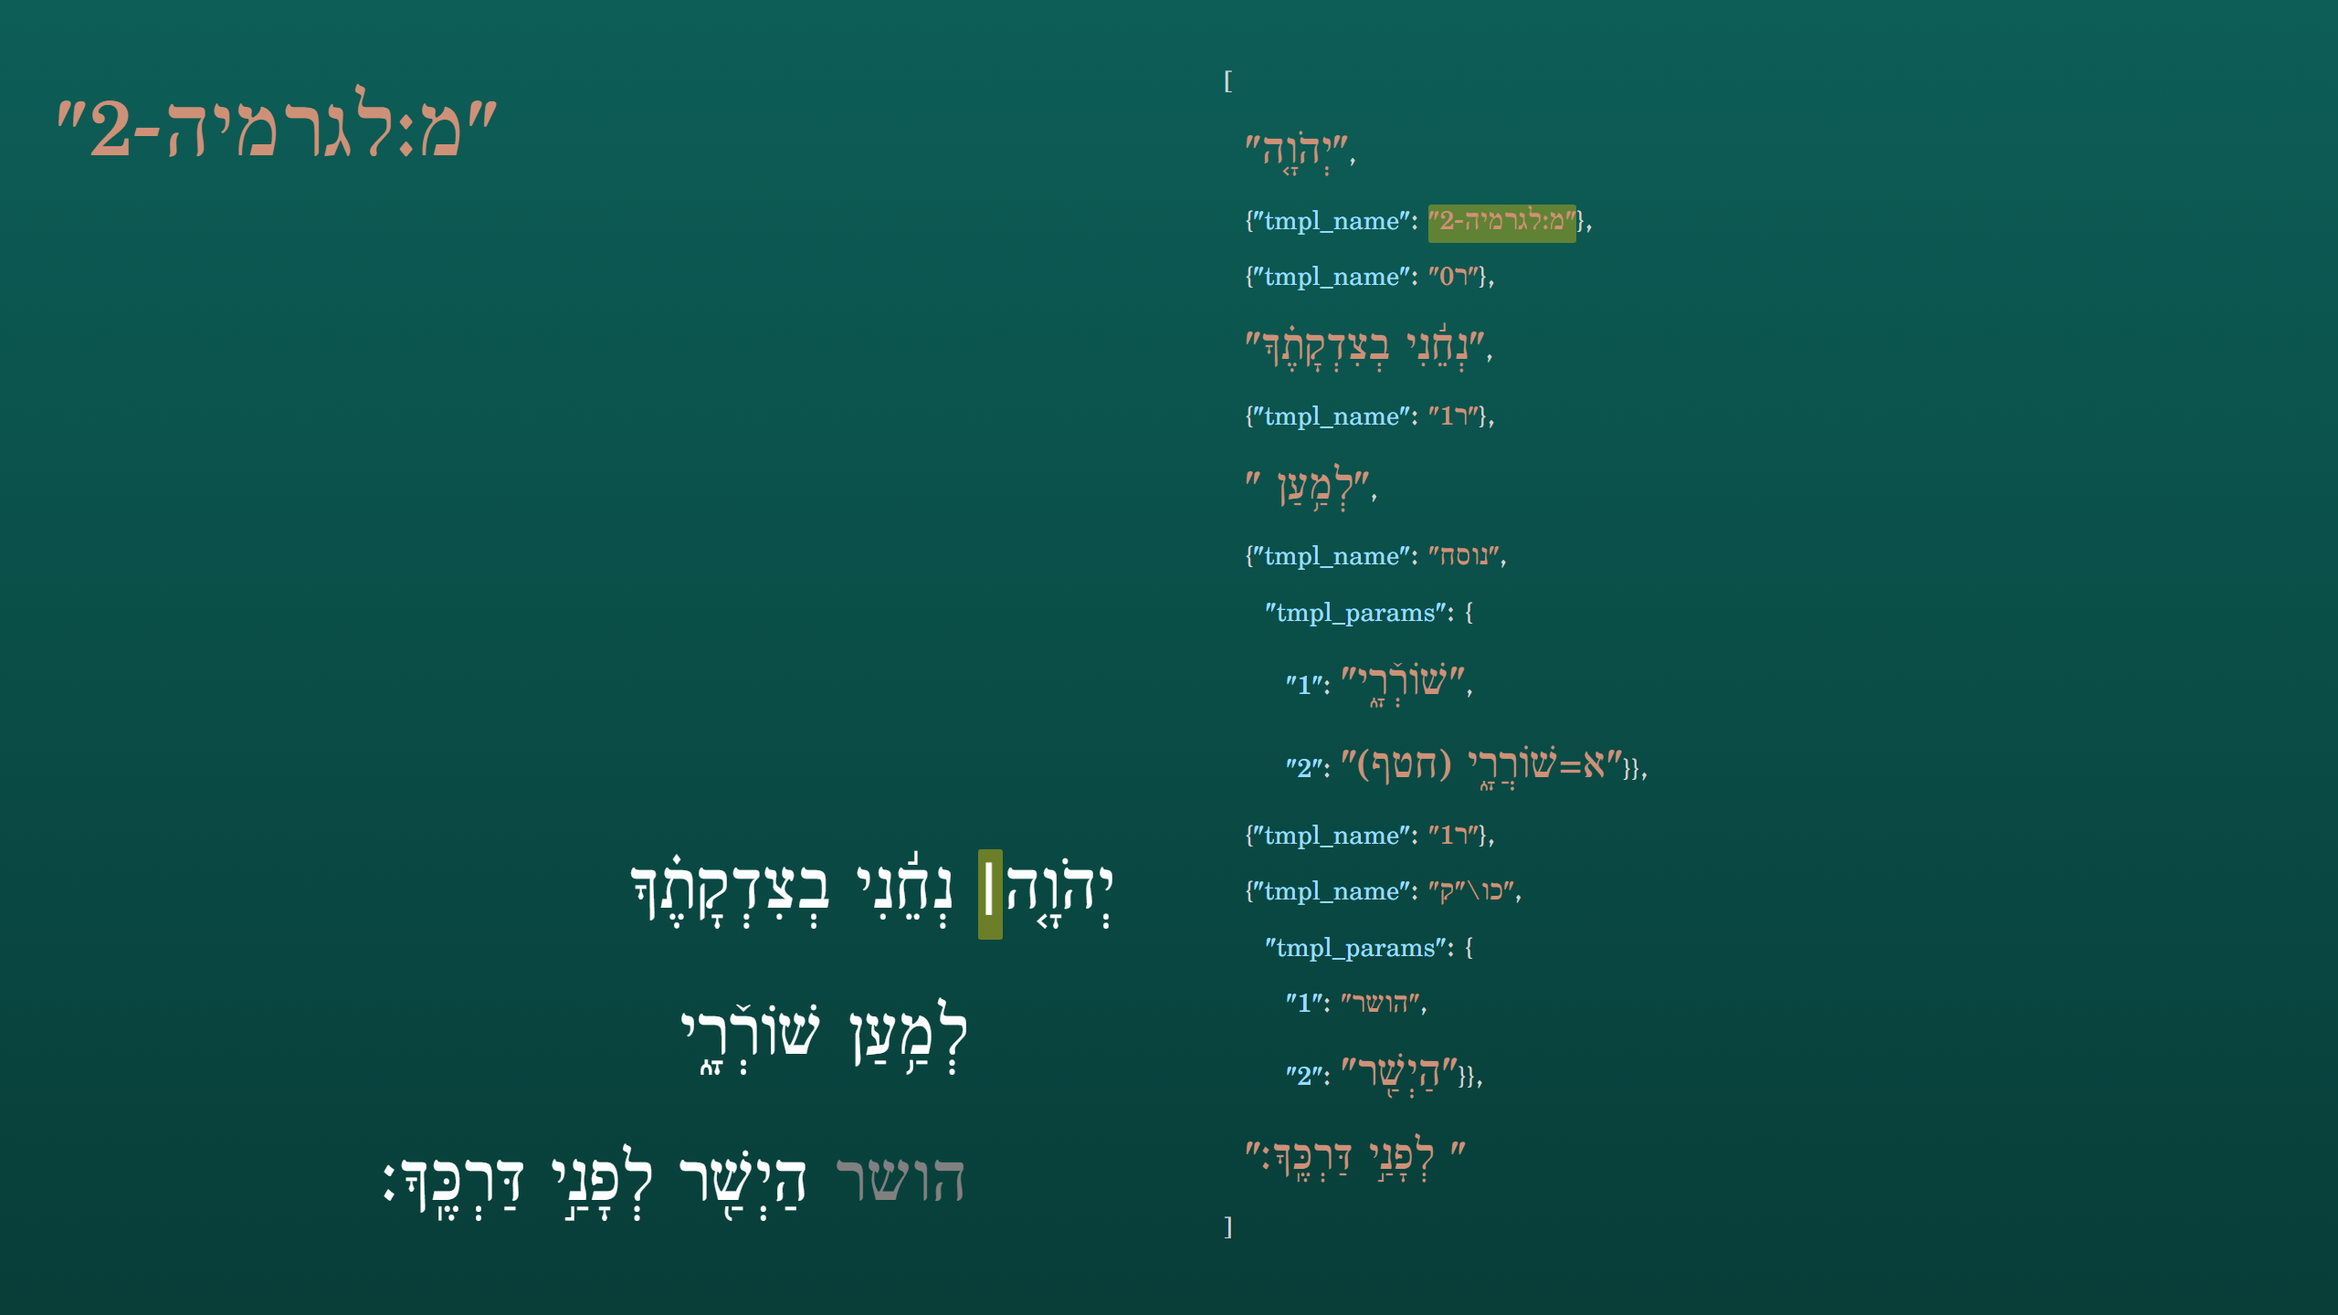
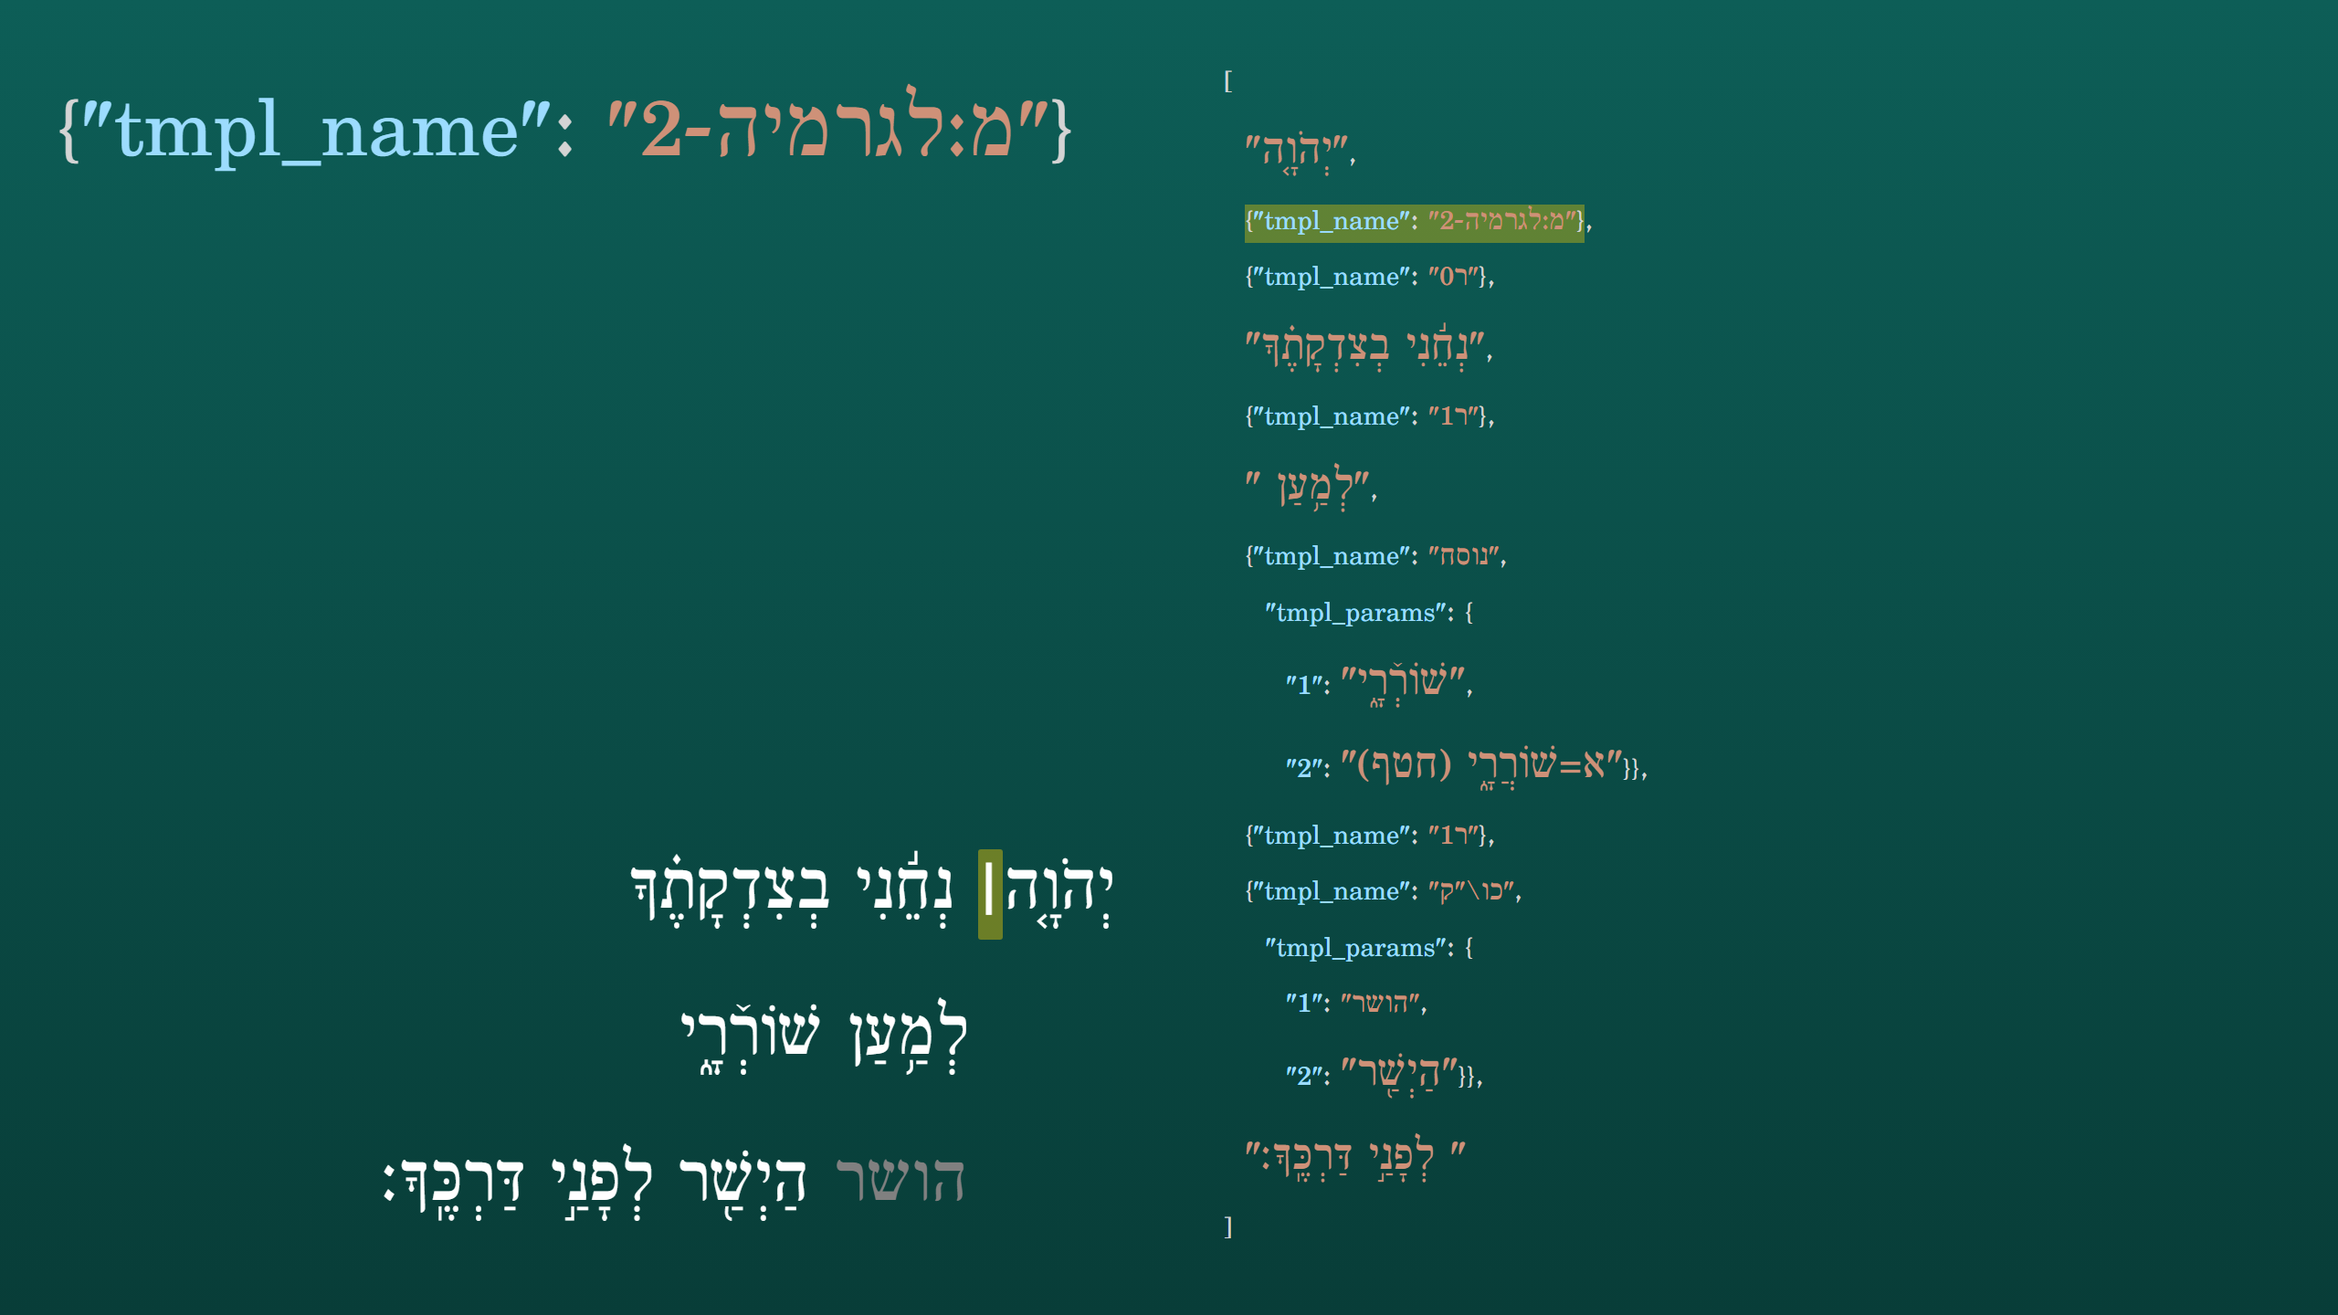
json_snippet_browser: highlight by char offset, not token boundary
The previous highlight logic only matched whole pygments token values,
so it could not highlight a span like '{"tmpl_name": "מ:לגרמיה-2"}'
that crosses multiple tokens.

Replace it with a character-offset approach: tokenize the full JSON
once, find the highlight range by string index, then split any token
that overlaps the range into before/inside/after sub-spans.  Extract
_one_span() to avoid repeating the escaping/zoom/Hebrew-bdi logic.

mam_is_a_dataset: update step-2 highlight to full JSON object
{"tmpl_name": "מ:לגרמיה-2"} (was just the template name string);
add step-3 slide highlighting {"tmpl_name": "ר0"}.

Regenerate step-1, step-2, and step-3 PNGs and HTML sources.

Changed region(s): [[0.0, 0.0625, 0.4688, 0.125], [0.5312, 0.1562, 0.625, 0.1875]]

diff --git a/misc/mam-is-a-dataset/img-sources/slide-psalm-5v9-mpplus-step-3.html b/misc/mam-is-a-dataset/img-sources/slide-psalm-5v9-mpplus-step-3.html
@@ -57,12 +57,12 @@
   }
 </style>
 </head>
-<body><div class="col" style="flex:2;flex-direction:column;justify-content:space-between;align-items:flex-start"><pre><bdi><span style="color:#ce9178; font-size:102px; font-feature-settings:'ss03'">יְהֹוָ֤ה</span></bdi></pre><div class="companion-html"><div><span class="hl">יְהֹוָ֤ה</span>&thinsp;<span style="font-weight: bold;">׀</span>&nbsp;נְחֵ֬נִי בְצִדְקָתֶ֗ךָ</div>
+<body><div class="col" style="flex:2;flex-direction:column;justify-content:space-between;align-items:flex-start"><pre><span style="color:#d4d4d4; font-size:102px; font-feature-settings:'ss03'">{</span><span style="color:#9cdcfe; font-size:102px; font-feature-settings:'ss03'">"tmpl_name"</span><span style="color:#d4d4d4; font-size:102px; font-feature-settings:'ss03'">:</span><span style="color:#d4d4d4; font-size:102px; font-feature-settings:'ss03'"> </span><bdi><span style="color:#ce9178; font-size:102px; font-feature-settings:'ss03'">"ר0"</span></bdi><span style="color:#d4d4d4; font-size:102px; font-feature-settings:'ss03'">}</span></pre><div class="companion-html"><div>יְהֹוָ֤ה&thinsp;<span style="font-weight: bold;">׀</span><span class="hl">&nbsp;</span>נְחֵ֬נִי בְצִדְקָתֶ֗ךָ</div>
 <div style="padding-right: 2em;">לְמַ֥עַן שׁוֹרְﬞרָ֑י</div>
 <div style="padding-right: 2em;"><span style="color:Gray;">הושר</span> הַיְשַׁ֖ר לְפָנַ֣י דַּרְכֶּֽךָ׃</div></div></div><div class="col" style="flex:2;justify-content:flex-start"><pre><span style="color:#d4d4d4;">[</span><span style="color:#d4d4d4;">
-  </span><span style="color:#ce9178;">"</span><bdi><span style="color:#ce9178; background-color:rgba(255,210,0,0.35); font-size:51px; font-feature-settings:'ss03'">יְהֹוָ֤ה</span></bdi><span style="color:#ce9178;">"</span><span style="color:#d4d4d4;">,</span><span style="color:#d4d4d4;">
+  </span><bdi><span style="color:#ce9178; font-size:51px; font-feature-settings:'ss03'">"יְהֹוָ֤ה"</span></bdi><span style="color:#d4d4d4;">,</span><span style="color:#d4d4d4;">
   </span><span style="color:#d4d4d4;">{</span><span style="color:#9cdcfe;">"tmpl_name"</span><span style="color:#d4d4d4;">:</span><span style="color:#d4d4d4;"> </span><bdi><span style="color:#ce9178;">"מ:לגרמיה-2"</span></bdi><span style="color:#d4d4d4;">},</span><span style="color:#d4d4d4;">
-  </span><span style="color:#d4d4d4;">{</span><span style="color:#9cdcfe;">"tmpl_name"</span><span style="color:#d4d4d4;">:</span><span style="color:#d4d4d4;"> </span><bdi><span style="color:#ce9178;">"ר0"</span></bdi><span style="color:#d4d4d4;">},</span><span style="color:#d4d4d4;">
+  </span><span style="color:#d4d4d4; background-color:rgba(255,210,0,0.35);">{</span><span style="color:#9cdcfe; background-color:rgba(255,210,0,0.35);">"tmpl_name"</span><span style="color:#d4d4d4; background-color:rgba(255,210,0,0.35);">:</span><span style="color:#d4d4d4; background-color:rgba(255,210,0,0.35);"> </span><bdi><span style="color:#ce9178; background-color:rgba(255,210,0,0.35);">"ר0"</span></bdi><span style="color:#d4d4d4; background-color:rgba(255,210,0,0.35);">}</span><span style="color:#d4d4d4;">,</span><span style="color:#d4d4d4;">
   </span><bdi><span style="color:#ce9178; font-size:51px; font-feature-settings:'ss03'">"נְחֵ֬נִי בְצִדְקָתֶ֗ךָ"</span></bdi><span style="color:#d4d4d4;">,</span><span style="color:#d4d4d4;">
   </span><span style="color:#d4d4d4;">{</span><span style="color:#9cdcfe;">"tmpl_name"</span><span style="color:#d4d4d4;">:</span><span style="color:#d4d4d4;"> </span><bdi><span style="color:#ce9178;">"ר1"</span></bdi><span style="color:#d4d4d4;">},</span><span style="color:#d4d4d4;">
   </span><bdi><span style="color:#ce9178; font-size:51px; font-feature-settings:'ss03'">"לְמַ֥עַן "</span></bdi><span style="color:#d4d4d4;">,</span><span style="color:#d4d4d4;">

diff --git a/misc/mam-is-a-dataset/img-sources/slide-psalm-5v9-mpplus-step-2.html b/misc/mam-is-a-dataset/img-sources/slide-psalm-5v9-mpplus-step-2.html
@@ -57,11 +57,11 @@
   }
 </style>
 </head>
-<body><div class="col" style="flex:2;flex-direction:column;justify-content:space-between;align-items:flex-start"><pre><bdi><span style="color:#ce9178; font-size:102px; font-feature-settings:'ss03'">"מ:לגרמיה-2"</span></bdi></pre><div class="companion-html"><div>יְהֹוָ֤ה<span class="hl">&thinsp;<span style="font-weight: bold;">׀</span></span>&nbsp;נְחֵ֬נִי בְצִדְקָתֶ֗ךָ</div>
+<body><div class="col" style="flex:2;flex-direction:column;justify-content:space-between;align-items:flex-start"><pre><span style="color:#d4d4d4; font-size:102px; font-feature-settings:'ss03'">{</span><span style="color:#9cdcfe; font-size:102px; font-feature-settings:'ss03'">"tmpl_name"</span><span style="color:#d4d4d4; font-size:102px; font-feature-settings:'ss03'">:</span><span style="color:#d4d4d4; font-size:102px; font-feature-settings:'ss03'"> </span><bdi><span style="color:#ce9178; font-size:102px; font-feature-settings:'ss03'">"מ:לגרמיה-2"</span></bdi><span style="color:#d4d4d4; font-size:102px; font-feature-settings:'ss03'">}</span></pre><div class="companion-html"><div>יְהֹוָ֤ה<span class="hl">&thinsp;<span style="font-weight: bold;">׀</span></span>&nbsp;נְחֵ֬נִי בְצִדְקָתֶ֗ךָ</div>
 <div style="padding-right: 2em;">לְמַ֥עַן שׁוֹרְﬞרָ֑י</div>
 <div style="padding-right: 2em;"><span style="color:Gray;">הושר</span> הַיְשַׁ֖ר לְפָנַ֣י דַּרְכֶּֽךָ׃</div></div></div><div class="col" style="flex:2;justify-content:flex-start"><pre><span style="color:#d4d4d4;">[</span><span style="color:#d4d4d4;">
   </span><bdi><span style="color:#ce9178; font-size:51px; font-feature-settings:'ss03'">"יְהֹוָ֤ה"</span></bdi><span style="color:#d4d4d4;">,</span><span style="color:#d4d4d4;">
-  </span><span style="color:#d4d4d4;">{</span><span style="color:#9cdcfe;">"tmpl_name"</span><span style="color:#d4d4d4;">:</span><span style="color:#d4d4d4;"> </span><bdi><span style="color:#ce9178; background-color:rgba(255,210,0,0.35); border-radius:3px;">"מ:לגרמיה-2"</span></bdi><span style="color:#d4d4d4;">},</span><span style="color:#d4d4d4;">
+  </span><span style="color:#d4d4d4; background-color:rgba(255,210,0,0.35);">{</span><span style="color:#9cdcfe; background-color:rgba(255,210,0,0.35);">"tmpl_name"</span><span style="color:#d4d4d4; background-color:rgba(255,210,0,0.35);">:</span><span style="color:#d4d4d4; background-color:rgba(255,210,0,0.35);"> </span><bdi><span style="color:#ce9178; background-color:rgba(255,210,0,0.35);">"מ:לגרמיה-2"</span></bdi><span style="color:#d4d4d4; background-color:rgba(255,210,0,0.35);">}</span><span style="color:#d4d4d4;">,</span><span style="color:#d4d4d4;">
   </span><span style="color:#d4d4d4;">{</span><span style="color:#9cdcfe;">"tmpl_name"</span><span style="color:#d4d4d4;">:</span><span style="color:#d4d4d4;"> </span><bdi><span style="color:#ce9178;">"ר0"</span></bdi><span style="color:#d4d4d4;">},</span><span style="color:#d4d4d4;">
   </span><bdi><span style="color:#ce9178; font-size:51px; font-feature-settings:'ss03'">"נְחֵ֬נִי בְצִדְקָתֶ֗ךָ"</span></bdi><span style="color:#d4d4d4;">,</span><span style="color:#d4d4d4;">
   </span><span style="color:#d4d4d4;">{</span><span style="color:#9cdcfe;">"tmpl_name"</span><span style="color:#d4d4d4;">:</span><span style="color:#d4d4d4;"> </span><bdi><span style="color:#ce9178;">"ר1"</span></bdi><span style="color:#d4d4d4;">},</span><span style="color:#d4d4d4;">

diff --git a/py/py_misc/json_snippet_browser.py b/py/py_misc/json_snippet_browser.py
@@ -55,6 +55,28 @@ def _highlight_companion_html(html: str, highlight_text: str) -> str:
     return html.replace(highlight_text, f'<span class="hl">{highlight_text}</span>', 1)
 
 
+def _one_span(
+    value: str,
+    color: str,
+    font_size_px: int,
+    pointed_scale: float,
+    hl_bg: bool,
+    zoom: bool,
+) -> str:
+    """Return the HTML span(s) for a single pygments token value."""
+    escaped = value.replace("&", "&amp;").replace("<", "&lt;").replace(">", "&gt;")
+    hl_style = " background-color:rgba(255,210,0,0.35);" if hl_bg else ""
+    if zoom:
+        size = round(font_size_px * pointed_scale * 2)
+        extra = f" font-size:{size}px; font-feature-settings:'ss03'"
+    elif pointed_scale != 1.0 and _has_pointing(value):
+        extra = f" font-size:{round(font_size_px * pointed_scale)}px; font-feature-settings:'ss03'"
+    else:
+        extra = ""
+    inner = f'<span style="color:{color};{hl_style}{extra}">{escaped}</span>'
+    return f"<bdi>{inner}</bdi>" if _has_hebrew(value) else inner
+
+
 def _build_html(
     json_text: str,
     top_rgb: tuple,
@@ -71,35 +93,60 @@ def _build_html(
     W, H = slide_render.W, slide_render.H
     font_uri = _TAAMEY_FONT.as_uri()
 
-    spans = []
+    # Tokenize the whole JSON once, then use character offsets to decide highlight.
+    # This avoids re-tokenizing fragments (which changes color assignments).
+    hl_start = json_text.index(highlight_text) if highlight_text else -1
+    hl_end = hl_start + len(highlight_text) if highlight_text else -1
+
+    code_spans = []
     zoom_spans = []
+    pos = 0
     for ttype, value in lex(json_text, JsonLexer()):
         color = _token_color(ttype)
-        escaped = value.replace("&", "&amp;").replace("<", "&lt;").replace(">", "&gt;")
-        is_hl = (
-            highlight_text is not None
-            and ttype in Token.Literal.String
-            and value.strip('"') == highlight_text
-        )
-        hl_style = (
-            " background-color:rgba(255,210,0,0.35); border-radius:3px;"
-            if is_hl
-            else ""
-        )
-        extra = (
-            f" font-size:{round(font_size_px * pointed_scale)}px; font-feature-settings:'ss03'"
-            if (pointed_scale != 1.0 and _has_pointing(value))
-            else ""
-        )
-        inner = f'<span style="color:{color};{hl_style}{extra}">{escaped}</span>'
-        spans.append(f"<bdi>{inner}</bdi>" if _has_hebrew(value) else inner)
-        if is_hl:
-            zoom_size = round(font_size_px * pointed_scale * 2)
-            zoom_inner = f"<span style=\"color:{color}; font-size:{zoom_size}px; font-feature-settings:'ss03'\">{escaped}</span>"
-            zoom_spans.append(
-                f"<bdi>{zoom_inner}</bdi>" if _has_hebrew(value) else zoom_inner
+        tok_end = pos + len(value)
+        # Does this token overlap the highlight range?
+        if highlight_text and pos < hl_end and tok_end > hl_start:
+            # Split the token into up-to-three parts: before-hl, inside-hl, after-hl.
+            pre = value[: max(0, hl_start - pos)]
+            mid = value[max(0, hl_start - pos) : min(len(value), hl_end - pos)]
+            post = value[min(len(value), hl_end - pos) :]
+            if pre:
+                code_spans.append(
+                    _one_span(
+                        pre, color, font_size_px, pointed_scale, hl_bg=False, zoom=False
+                    )
+                )
+            if mid:
+                code_spans.append(
+                    _one_span(
+                        mid, color, font_size_px, pointed_scale, hl_bg=True, zoom=False
+                    )
+                )
+                zoom_spans.append(
+                    _one_span(
+                        mid, color, font_size_px, pointed_scale, hl_bg=False, zoom=True
+                    )
+                )
+            if post:
+                code_spans.append(
+                    _one_span(
+                        post,
+                        color,
+                        font_size_px,
+                        pointed_scale,
+                        hl_bg=False,
+                        zoom=False,
+                    )
+                )
+        else:
+            code_spans.append(
+                _one_span(
+                    value, color, font_size_px, pointed_scale, hl_bg=False, zoom=False
+                )
             )
-    code_html = "".join(spans)
+        pos = tok_end
+
+    code_html = "".join(code_spans)
     zoom_html = "".join(zoom_spans)
 
     tr, tg, tb = top_rgb

diff --git a/py/slide_generator/mam_is_a_dataset.py b/py/slide_generator/mam_is_a_dataset.py
@@ -130,7 +130,7 @@ def render_psalm_5v9_mpplus_step_1():
 
 
 def render_psalm_5v9_mpplus_step_2():
-    """Render slide-psalm-5v9-mpplus-step-2.png: 2-col with מ:לגרמיה-2 highlighted."""
+    """Render slide-psalm-5v9-mpplus-step-2.png: 2-col with {"tmpl_name": "מ:לגרמיה-2"} highlighted."""
     json_snippet_browser.render_json_snippet_browser(
         IMAGES_DIR,
         DECK_NAME,
@@ -143,8 +143,27 @@ def render_psalm_5v9_mpplus_step_2():
         font_size_px=34,
         pointed_scale=1.5,
         companion_first=True,
-        highlight_text="מ:לגרמיה-2",
+        highlight_text='{"tmpl_name": "מ:לגרמיה-2"}',
         companion_highlight_html='&thinsp;<span style="font-weight: bold;">׀</span>',
+    )
+
+
+def render_psalm_5v9_mpplus_step_3():
+    """Render slide-psalm-5v9-mpplus-step-3.png: 2-col with {"tmpl_name": "ר0"} highlighted."""
+    json_snippet_browser.render_json_snippet_browser(
+        IMAGES_DIR,
+        DECK_NAME,
+        _PSALM_5V9_JSON,
+        "psalm-5v9-mpplus-step-3",
+        top_rgb=_TOP_RGB,
+        bot_rgb=_BOT_RGB,
+        companion_html_path=_PSALM_5V9_WS_FRAGMENT,
+        layout="row",
+        font_size_px=34,
+        pointed_scale=1.5,
+        companion_first=True,
+        highlight_text='{"tmpl_name": "ר0"}',
+        companion_highlight_html="&nbsp;",
     )
 
 
@@ -156,4 +175,5 @@ ALL_SLIDES = {
     "psalm-5v9-mpplus-step-0": render_psalm_5v9_mpplus_step_0,
     "psalm-5v9-mpplus-step-1": render_psalm_5v9_mpplus_step_1,
     "psalm-5v9-mpplus-step-2": render_psalm_5v9_mpplus_step_2,
+    "psalm-5v9-mpplus-step-3": render_psalm_5v9_mpplus_step_3,
 }

diff --git a/misc/mam-is-a-dataset/img/slide-psalm-5v9-mpplus-step-3-provenance.md b/misc/mam-is-a-dataset/img/slide-psalm-5v9-mpplus-step-3-provenance.md
@@ -1,0 +1,3 @@
+<!-- Auto-generated by py/main_slide_generator.py render-slides --deck mam-is-a-dataset psalm-5v9-mpplus-step-3. Do not edit by hand. -->
+
+Generated by `py/main_slide_generator.py render-slides --deck mam-is-a-dataset psalm-5v9-mpplus-step-3`.
